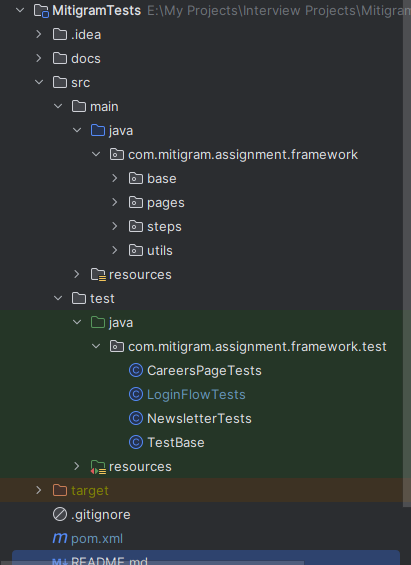
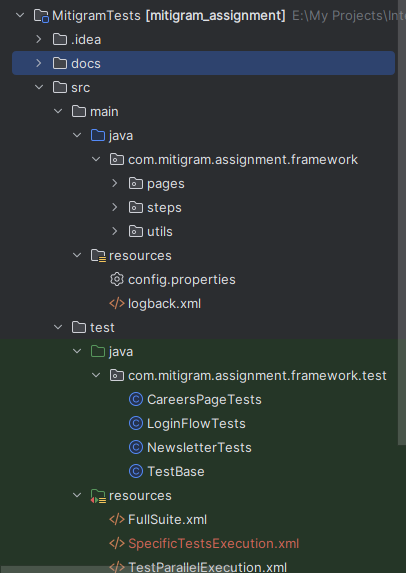
refactored some codes

Changed region(s): [[0.0, 0.0, 1.0, 1.0], [0.9754, 0.7522, 1.0, 0.9027]]

diff --git a/src/main/java/com/mitigram/assignment/framework/pages/PageBase.java b/src/main/java/com/mitigram/assignment/framework/pages/PageBase.java
@@ -1,6 +1,5 @@
-package com.mitigram.assignment.framework.base;
+package com.mitigram.assignment.framework.pages;
 
-import com.mitigram.assignment.framework.utils.Constants;
 import org.openqa.selenium.*;
 import org.openqa.selenium.support.PageFactory;
 import org.openqa.selenium.support.ui.ExpectedConditions;
@@ -10,20 +9,22 @@ import org.openqa.selenium.support.ui.WebDriverWait;
 
 import java.time.Duration;
 import java.util.List;
+import java.util.function.Function;
+
+import static com.mitigram.assignment.framework.utils.Constants.POLLING_INTERVAL_IN_MILLISECONDS;
+import static com.mitigram.assignment.framework.utils.Constants.WAIT_TIMEOUT_IN_SECONDS;
 
 public class PageBase {
-    protected final WebDriverWait wait;
+    private final WebDriverWait wait;
     protected final WebDriver driver;
 
     public PageBase(WebDriver driver) {
         PageFactory.initElements(driver, this);
-        wait = new WebDriverWait(driver, Duration.ofSeconds(Constants.EXPLICIT_WAIT_TIMEOUT));
+        wait = new WebDriverWait(driver, Duration.ofSeconds(WAIT_TIMEOUT_IN_SECONDS));
         this.driver = driver;
     }
 
     protected WebElement waitUntilVisibilityOfElement(WebElement webElement, By locator) {
-        Wait<WebDriver> wait1 = new FluentWait<>(driver);
-        wait1.until(ExpectedConditions.visibilityOf(webElement));
         return wait.until(ExpectedConditions.visibilityOf(webElement.findElement(locator)));
     }
 
@@ -35,13 +36,17 @@ public class PageBase {
         wait.until(ExpectedConditions.invisibilityOfAllElements(webElementList));
     }
 
-    protected WebElement fluentWaitPresenceOfElement(By locator) {
-        Wait<WebDriver> fluentWait = new FluentWait<>(driver)
-                .withTimeout(Duration.ofSeconds(10))
-                .pollingEvery(Duration.ofMillis(50))
-                .ignoring(TimeoutException.class);
+    protected WebElement waitUntilPresenceOfElement(Function<WebDriver, WebElement> customFunction) {
+        /*Use this if you are dealing with dynamic content that might take unpredictable
+        amounts of time to load or if you need to create a custom condition for waiting */
 
-        return fluentWait.until(ExpectedConditions.presenceOfElementLocated(locator));
+        Wait<WebDriver> fluentWait = new FluentWait<>(driver)
+                .withTimeout(Duration.ofSeconds(WAIT_TIMEOUT_IN_SECONDS))
+                .pollingEvery(Duration.ofMillis(POLLING_INTERVAL_IN_MILLISECONDS))
+                .ignoring(NoSuchElementException.class)
+                .ignoring(StaleElementReferenceException.class);
+
+        return fluentWait.until(customFunction);
     }
 
     protected Object executeJavaScript(String script, WebElement webElement) {

diff --git a/src/main/java/com/mitigram/assignment/framework/utils/Constants.java b/src/main/java/com/mitigram/assignment/framework/utils/Constants.java
@@ -24,7 +24,9 @@ public class Constants {
             properties.getProperty("EDGE_DRIVER_LOCATION")).orElse("");
     public static final String GECKO_DRIVER_LOCATION = Optional.ofNullable(
             properties.getProperty("GECKO_DRIVER_LOCATION")).orElse("");
-    public static final int EXPLICIT_WAIT_TIMEOUT = Integer.parseInt(Optional.ofNullable(
-            properties.getProperty("EXPLICIT_WAIT_TIMEOUT")).orElse("20"));
+    public static final int WAIT_TIMEOUT_IN_SECONDS = Integer.parseInt(Optional.ofNullable(
+            properties.getProperty("WAIT_TIMEOUT_IN_SECONDS")).orElse("20"));
+    public static final int POLLING_INTERVAL_IN_MILLISECONDS = Integer.parseInt(Optional.ofNullable(
+            properties.getProperty("POLLING_INTERVAL_IN_MILLISECONDS")).orElse("100"));
 
 }

diff --git a/src/main/java/com/mitigram/assignment/framework/steps/CommonSteps.java b/src/main/java/com/mitigram/assignment/framework/steps/CommonSteps.java
@@ -1,6 +1,5 @@
 package com.mitigram.assignment.framework.steps;
 
-import com.mitigram.assignment.framework.base.StepBase;
 import com.mitigram.assignment.framework.pages.NavigationMenuPage;
 import com.mitigram.assignment.framework.pages.HomePage;
 import com.mitigram.assignment.framework.utils.Constants;

diff --git a/src/main/java/com/mitigram/assignment/framework/pages/NavigationMenuPage.java b/src/main/java/com/mitigram/assignment/framework/pages/NavigationMenuPage.java
@@ -1,6 +1,5 @@
 package com.mitigram.assignment.framework.pages;
 
-import com.mitigram.assignment.framework.base.PageBase;
 import org.openqa.selenium.WebDriver;
 import org.openqa.selenium.WebElement;
 import org.openqa.selenium.interactions.Actions;

diff --git a/src/main/java/com/mitigram/assignment/framework/steps/ForgotPasswordPageSteps.java b/src/main/java/com/mitigram/assignment/framework/steps/ForgotPasswordPageSteps.java
@@ -1,6 +1,5 @@
 package com.mitigram.assignment.framework.steps;
 
-import com.mitigram.assignment.framework.base.StepBase;
 import com.mitigram.assignment.framework.pages.ForgotPasswordPage;
 
 public class ForgotPasswordPageSteps extends StepBase {

diff --git a/src/main/java/com/mitigram/assignment/framework/pages/CareersPage.java b/src/main/java/com/mitigram/assignment/framework/pages/CareersPage.java
@@ -1,6 +1,5 @@
 package com.mitigram.assignment.framework.pages;
 
-import com.mitigram.assignment.framework.base.PageBase;
 import org.openqa.selenium.By;
 import org.openqa.selenium.NoSuchElementException;
 import org.openqa.selenium.WebDriver;

diff --git a/src/main/java/com/mitigram/assignment/framework/pages/ForgotPasswordPage.java b/src/main/java/com/mitigram/assignment/framework/pages/ForgotPasswordPage.java
@@ -1,6 +1,5 @@
 package com.mitigram.assignment.framework.pages;
 
-import com.mitigram.assignment.framework.base.PageBase;
 import org.openqa.selenium.WebDriver;
 import org.openqa.selenium.WebElement;
 import org.openqa.selenium.support.FindBy;

diff --git a/src/main/java/com/mitigram/assignment/framework/pages/HomePage.java b/src/main/java/com/mitigram/assignment/framework/pages/HomePage.java
@@ -1,6 +1,5 @@
 package com.mitigram.assignment.framework.pages;
 
-import com.mitigram.assignment.framework.base.PageBase;
 import org.openqa.selenium.WebDriver;
 import org.openqa.selenium.WebElement;
 import org.openqa.selenium.support.FindBy;

diff --git a/src/main/java/com/mitigram/assignment/framework/steps/NewsletterSectionSteps.java b/src/main/java/com/mitigram/assignment/framework/steps/NewsletterSectionSteps.java
@@ -1,6 +1,5 @@
 package com.mitigram.assignment.framework.steps;
 
-import com.mitigram.assignment.framework.base.StepBase;
 import com.mitigram.assignment.framework.pages.NewsletterPage;
 
 public class NewsletterSectionSteps extends StepBase {

diff --git a/src/main/java/com/mitigram/assignment/framework/pages/LoginPage.java b/src/main/java/com/mitigram/assignment/framework/pages/LoginPage.java
@@ -1,6 +1,5 @@
 package com.mitigram.assignment.framework.pages;
 
-import com.mitigram.assignment.framework.base.PageBase;
 import org.openqa.selenium.By;
 import org.openqa.selenium.WebDriver;
 import org.openqa.selenium.WebElement;

diff --git a/src/main/java/com/mitigram/assignment/framework/pages/NewsletterPage.java b/src/main/java/com/mitigram/assignment/framework/pages/NewsletterPage.java
@@ -1,6 +1,5 @@
 package com.mitigram.assignment.framework.pages;
 
-import com.mitigram.assignment.framework.base.PageBase;
 import org.openqa.selenium.By;
 import org.openqa.selenium.WebDriver;
 import org.openqa.selenium.WebElement;

diff --git a/src/main/java/com/mitigram/assignment/framework/steps/LoginPageSteps.java b/src/main/java/com/mitigram/assignment/framework/steps/LoginPageSteps.java
@@ -1,6 +1,5 @@
 package com.mitigram.assignment.framework.steps;
 
-import com.mitigram.assignment.framework.base.StepBase;
 import com.mitigram.assignment.framework.pages.LoginPage;
 
 public class LoginPageSteps extends StepBase {
